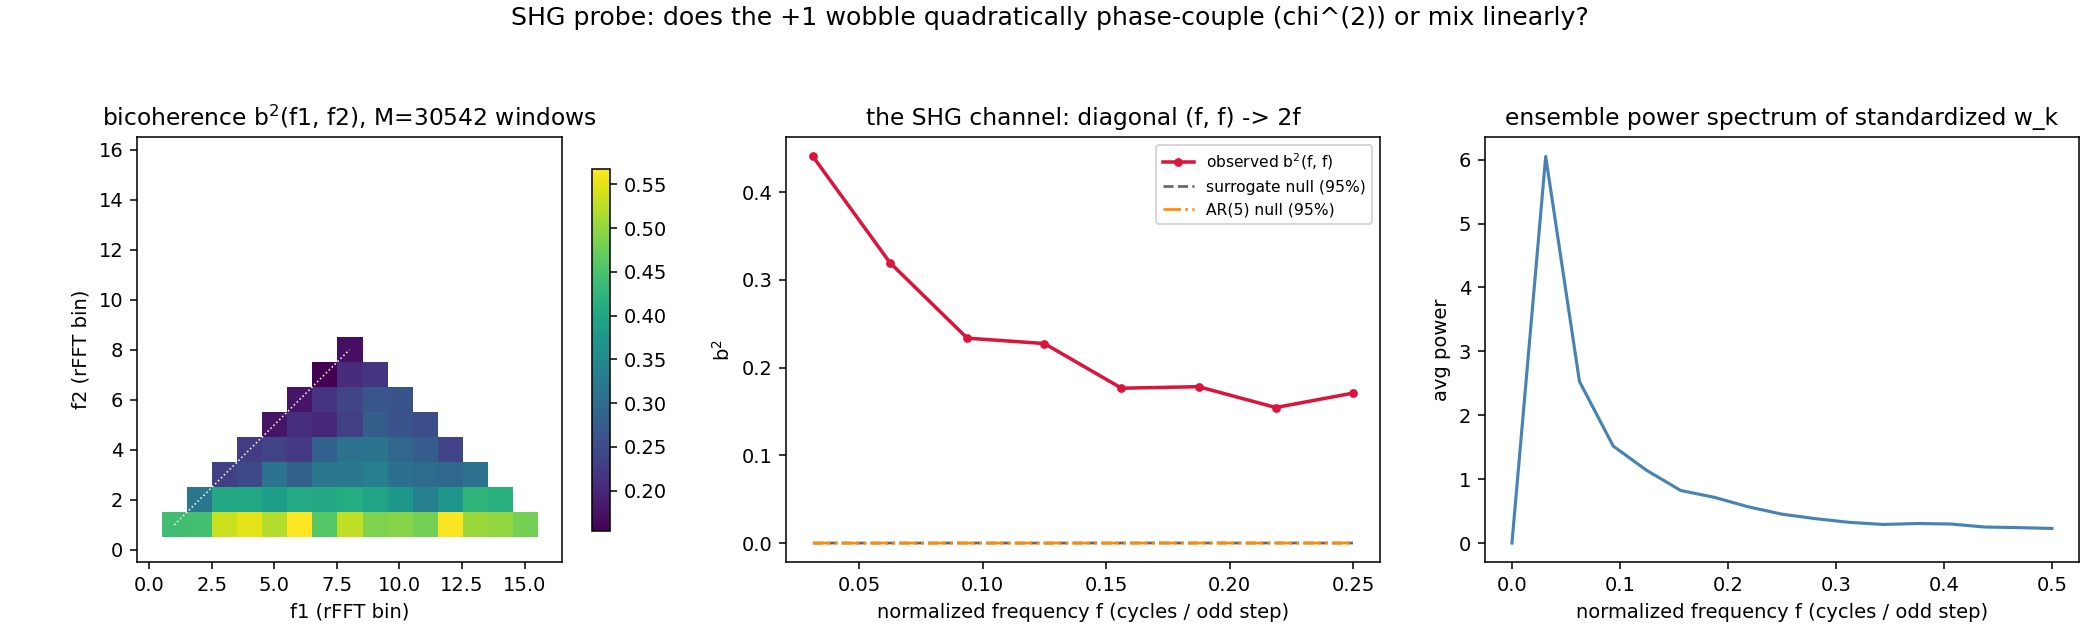
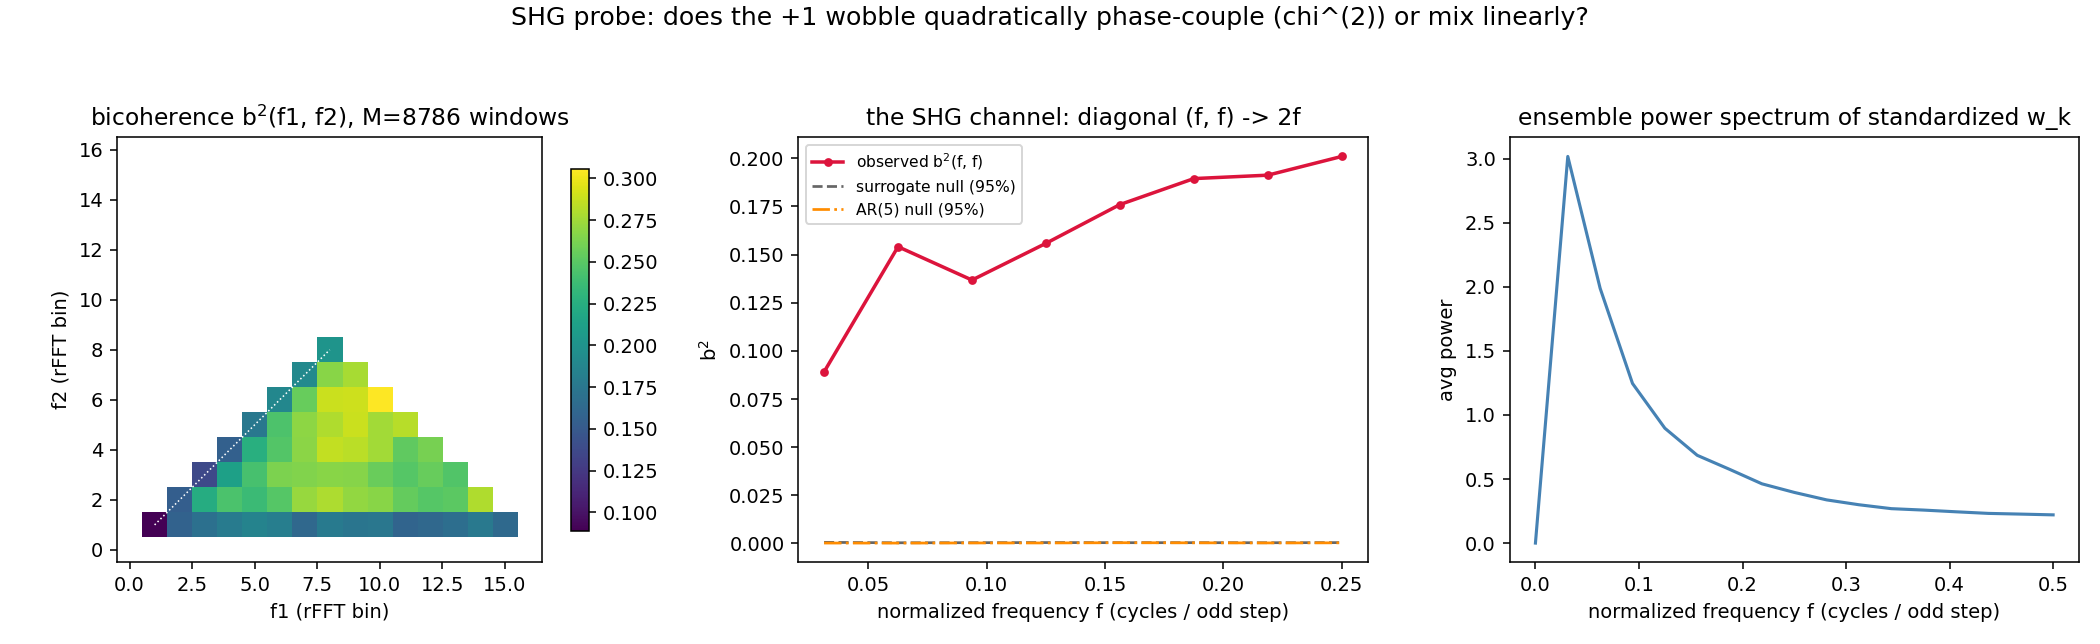
fix(scripts): dedup merged-tail windows + subtract ensemble mean in SHG probe
Claude-Session: https://claude.ai/code/session_01JDs5m5jP8azHdJjahkpAhU

diff --git a/scripts/collatz_shg_bicoherence.py b/scripts/collatz_shg_bicoherence.py
@@ -75,18 +75,38 @@ def self_check() -> None:
 
 
 def build_ensemble() -> np.ndarray:
-    """Standardized (M, L) wobble windows; logs the skipped-seed fraction."""
-    windows, skipped, total = [], 0, 0
+    """Standardized, tail-deduplicated, mean-subtracted (M, L) wobble windows.
+
+    Collatz orbits merge: a window whose final 16 odd steps duplicate an
+    already-accepted window carries no new tail information, and keeping it
+    would let the observed statistic average duplicated data while the nulls
+    draw fresh randomness per row -- so such windows are dropped (logged).
+    The ensemble-mean waveform is then subtracted so bicoherence measures
+    fluctuation coupling, not the common deterministic ramp of the wobble;
+    every null downstream operates on this same mean-subtracted ensemble.
+    """
+    windows, skipped, dup, total = [], 0, 0, 0
+    seen: set[bytes] = set()
     for seed in range(SEED_LO, SEED_HI, 2):
         total += 1
         w = wobble_increments(seed)
         if w.size < L:
             skipped += 1
             continue
+        tail = w[L - 16 : L].tobytes()
+        if tail in seen:
+            dup += 1
+            continue
+        seen.add(tail)
         windows.append(w[:L])
     print(f"ensemble: {len(windows)} windows of L={L} odd steps "
-          f"({skipped}/{total} seeds skipped = {skipped / total:.1%})")
-    return standardize_windows(np.array(windows))
+          f"({skipped}/{total} seeds skipped = {skipped / total:.1%}, "
+          f"{dup}/{total} merged-tail duplicates dropped = {dup / total:.1%})")
+    win = standardize_windows(np.array(windows))
+    mean_wave = win.mean(axis=0)
+    frac = float(win.shape[0] * np.sum(mean_wave**2) / np.sum(win**2))
+    print(f"ensemble-mean waveform removed (variance fraction = {frac:.3%})")
+    return win - mean_wave
 
 
 def null_band(estimates: np.ndarray) -> np.ndarray:
